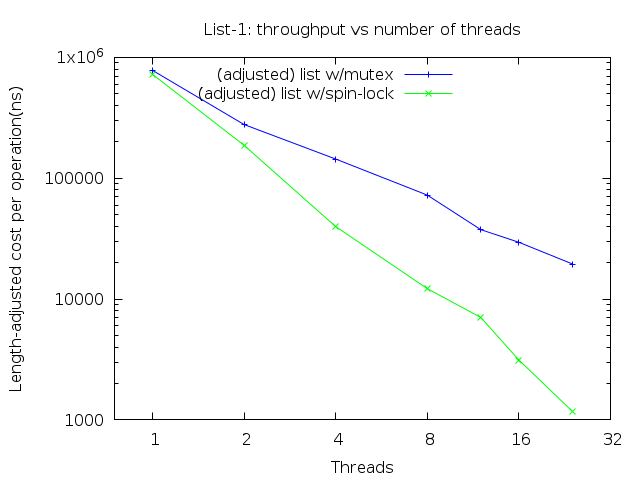
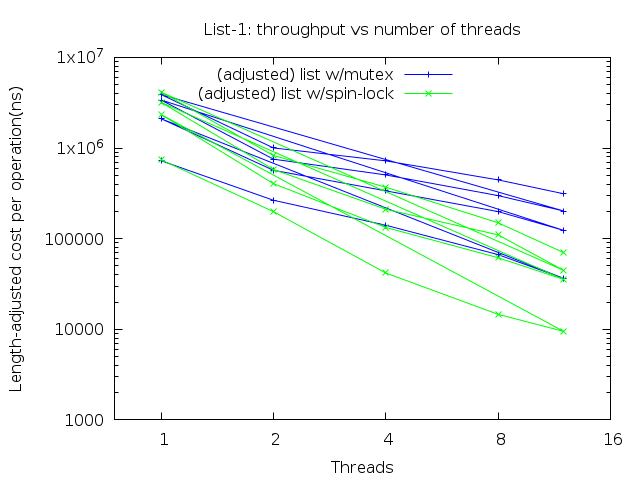
all the graphs

diff --git a/labs/lab2b/lab2_list.c b/labs/lab2b/lab2_list.c
@@ -373,6 +373,6 @@ int main(int argc, char *argv[])
     //    long long runTime = end.tv_nsec - start.tv_nsec;
     long long aveTime = ns/numOp;
     long long aveMutex = mutex_time/numOp;
-    fprintf(stdout, "%s,%i,%i,1,%lli,%lli,%lli,%lli\n", tag,threadNum, iterNum, numOp, ns, aveTime, aveMutex);
+    fprintf(stdout, "%s,%i,%i,%i,%lli,%lli,%lli,%lli\n", tag,threadNum, iterNum, listNum, numOp, ns, aveTime, aveMutex);
 
 }
